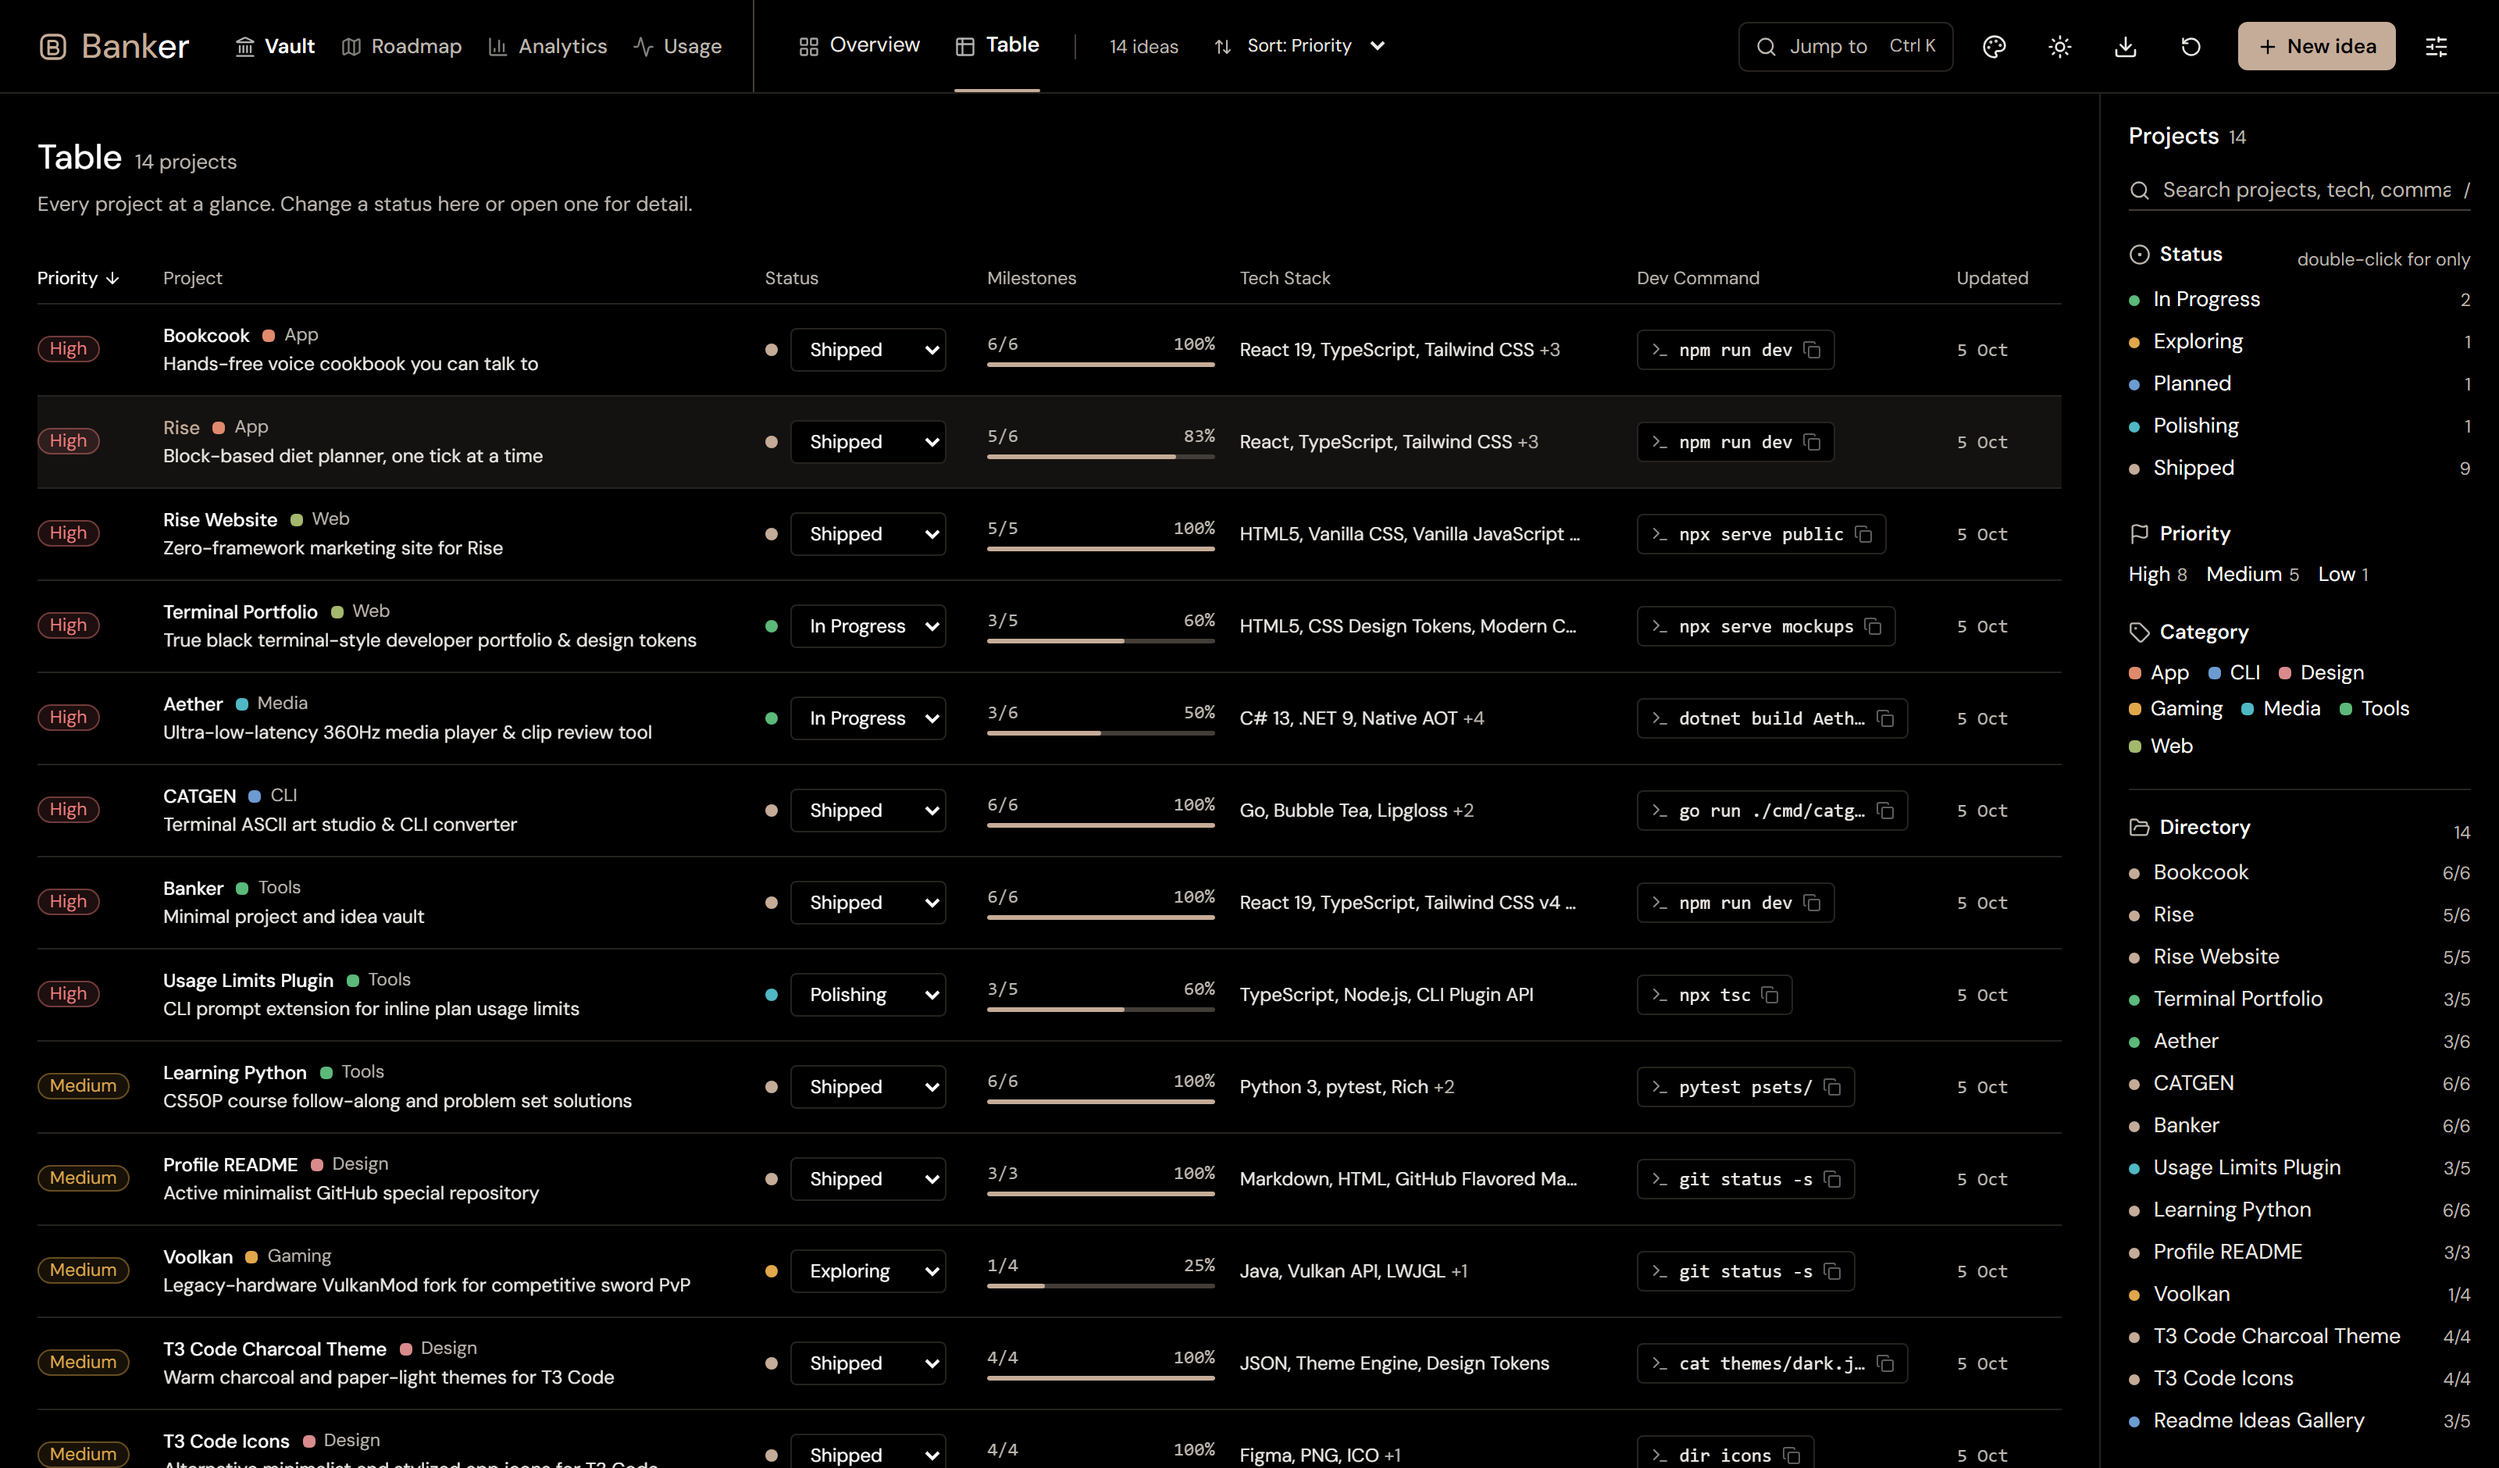
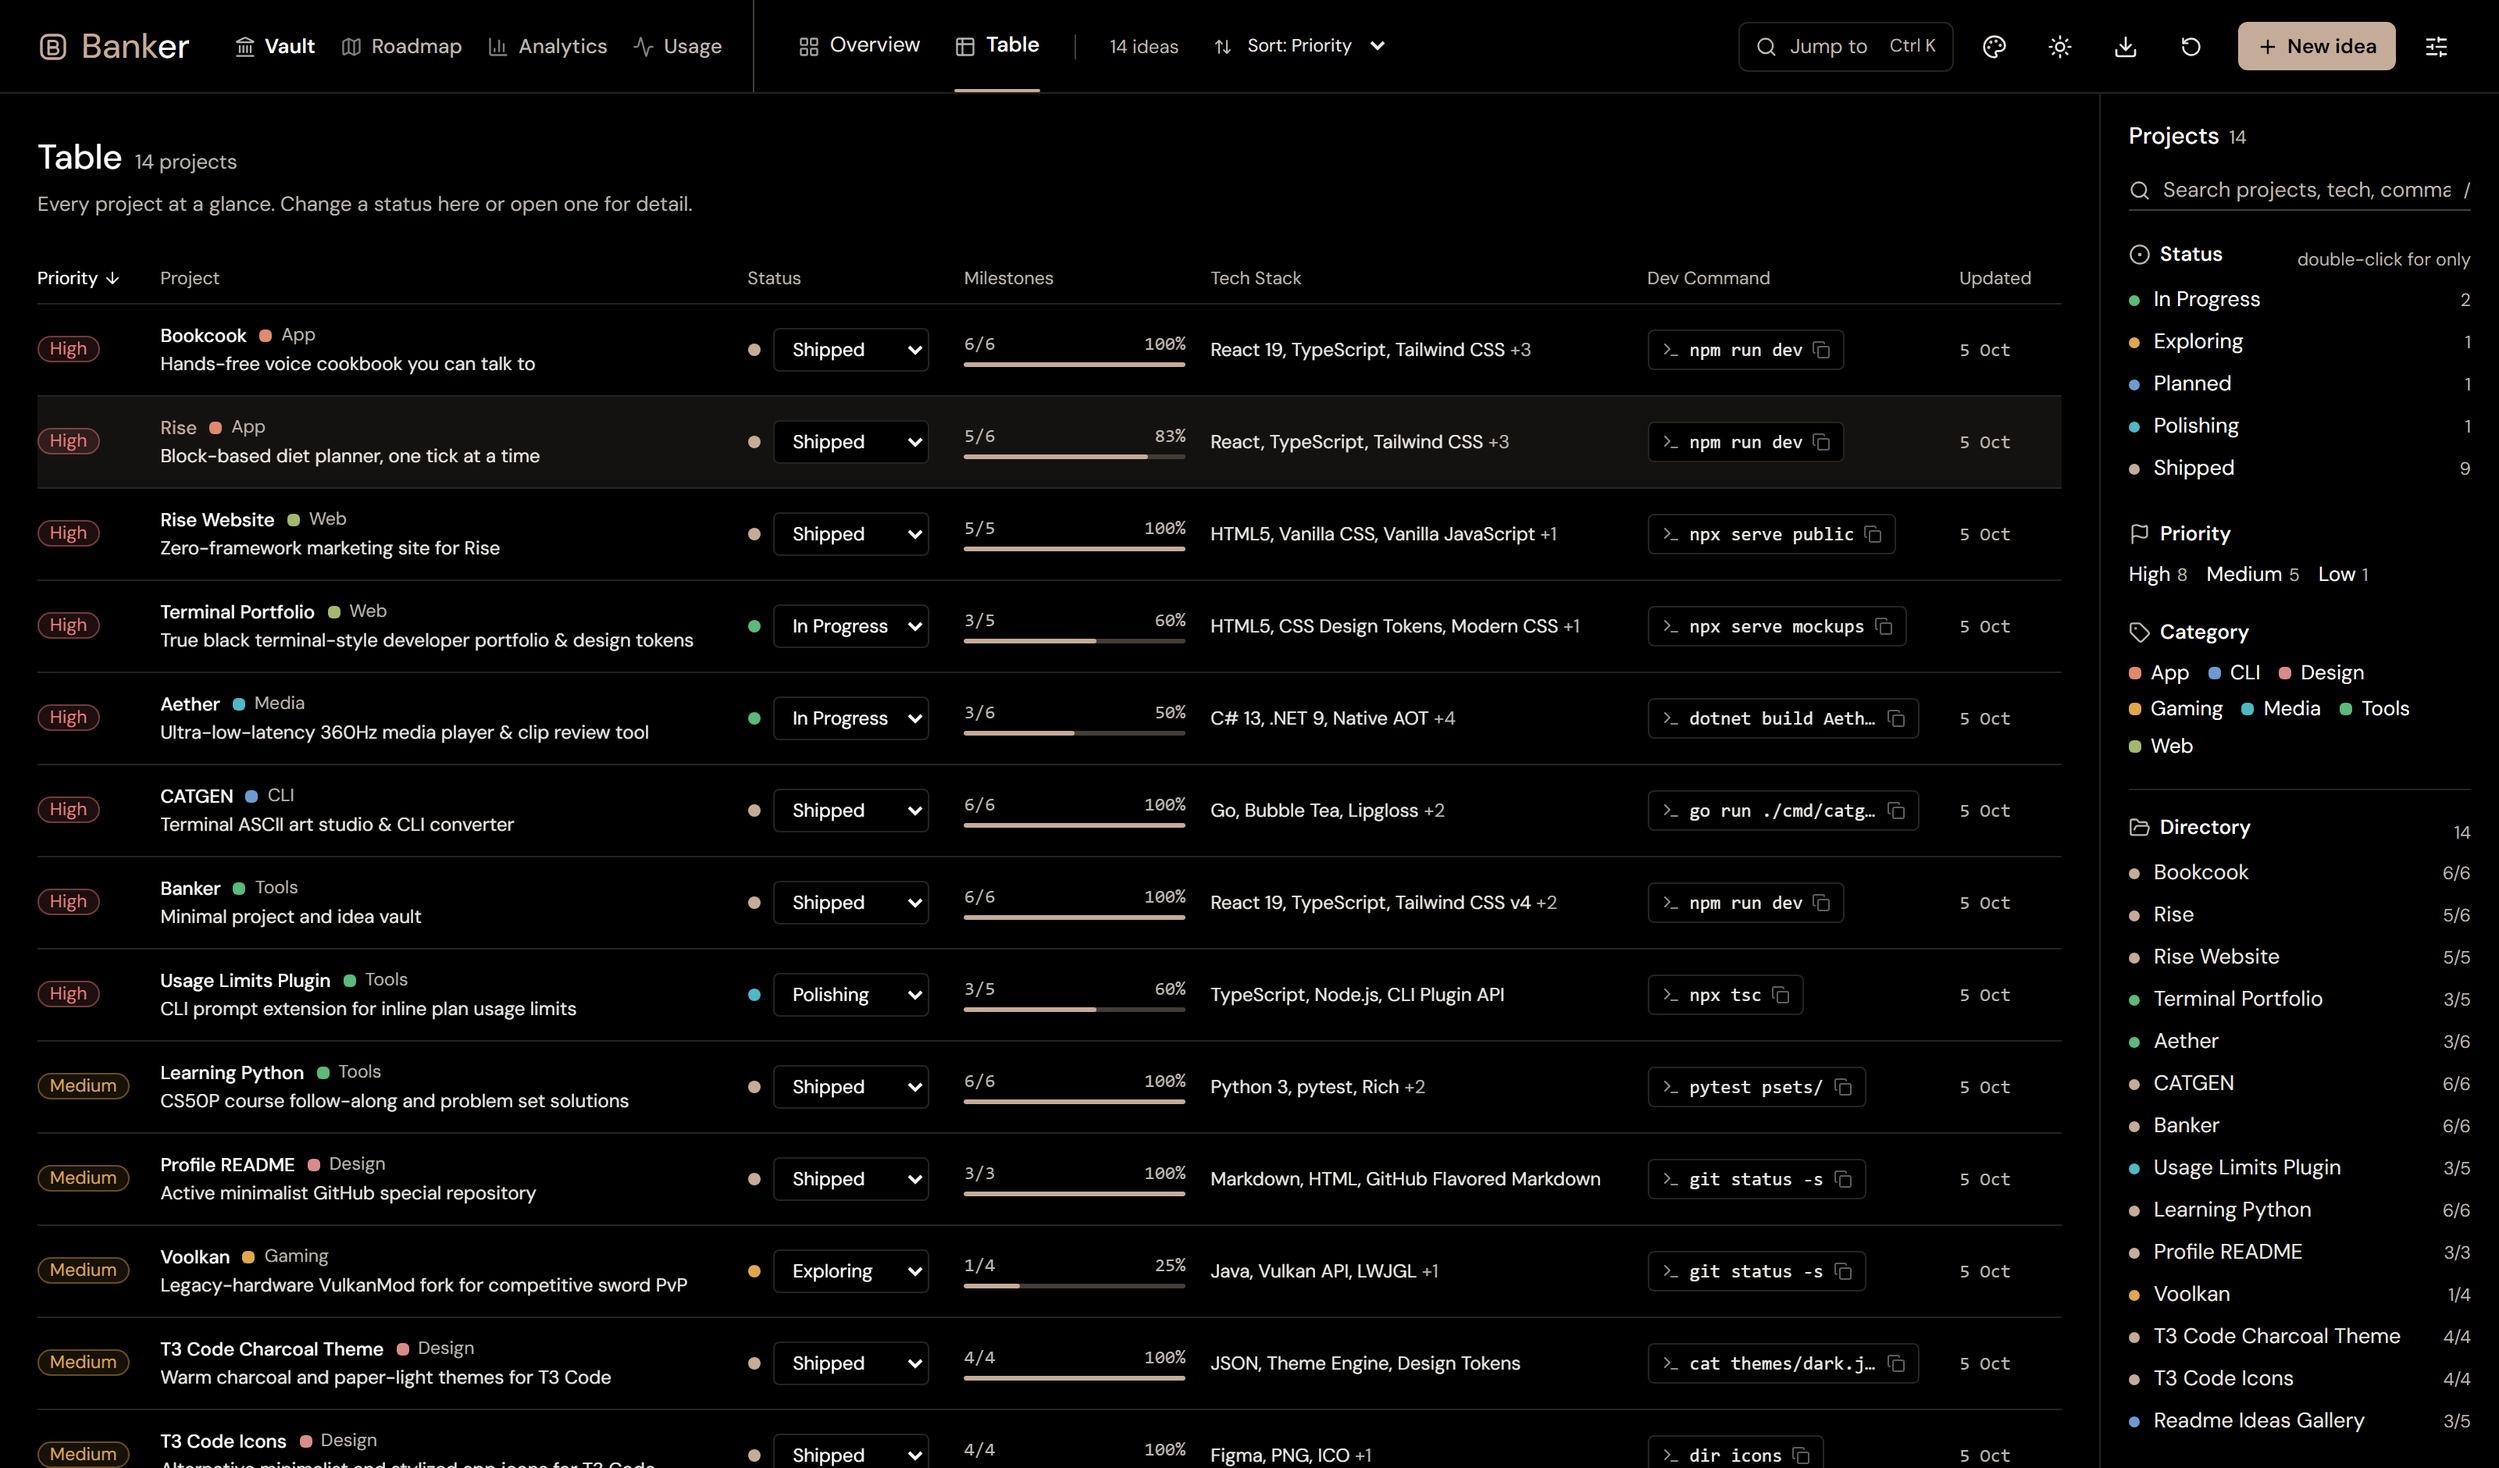
fix: table tech stack no longer cut off with an ellipsis

diff --git a/src/components/TableView.tsx b/src/components/TableView.tsx
@@ -172,7 +172,7 @@ export const TableView: React.FC<TableViewProps> = ({
 
                     {/* Tech Stack */}
                     <td className="py-3 pr-4 align-middle">
-                      <div className="text-[12px] text-[var(--fg-2)] max-w-[220px] truncate">
+                      <div className="text-[12px] text-[var(--fg-2)] max-w-[260px] leading-snug line-clamp-2" title={project.techStack.join(', ')}>
                         {project.techStack.slice(0, 3).join(', ')}
                         {project.techStack.length > 3 && (
                           <span className="text-[var(--fg-3)]"> +{project.techStack.length - 3}</span>
